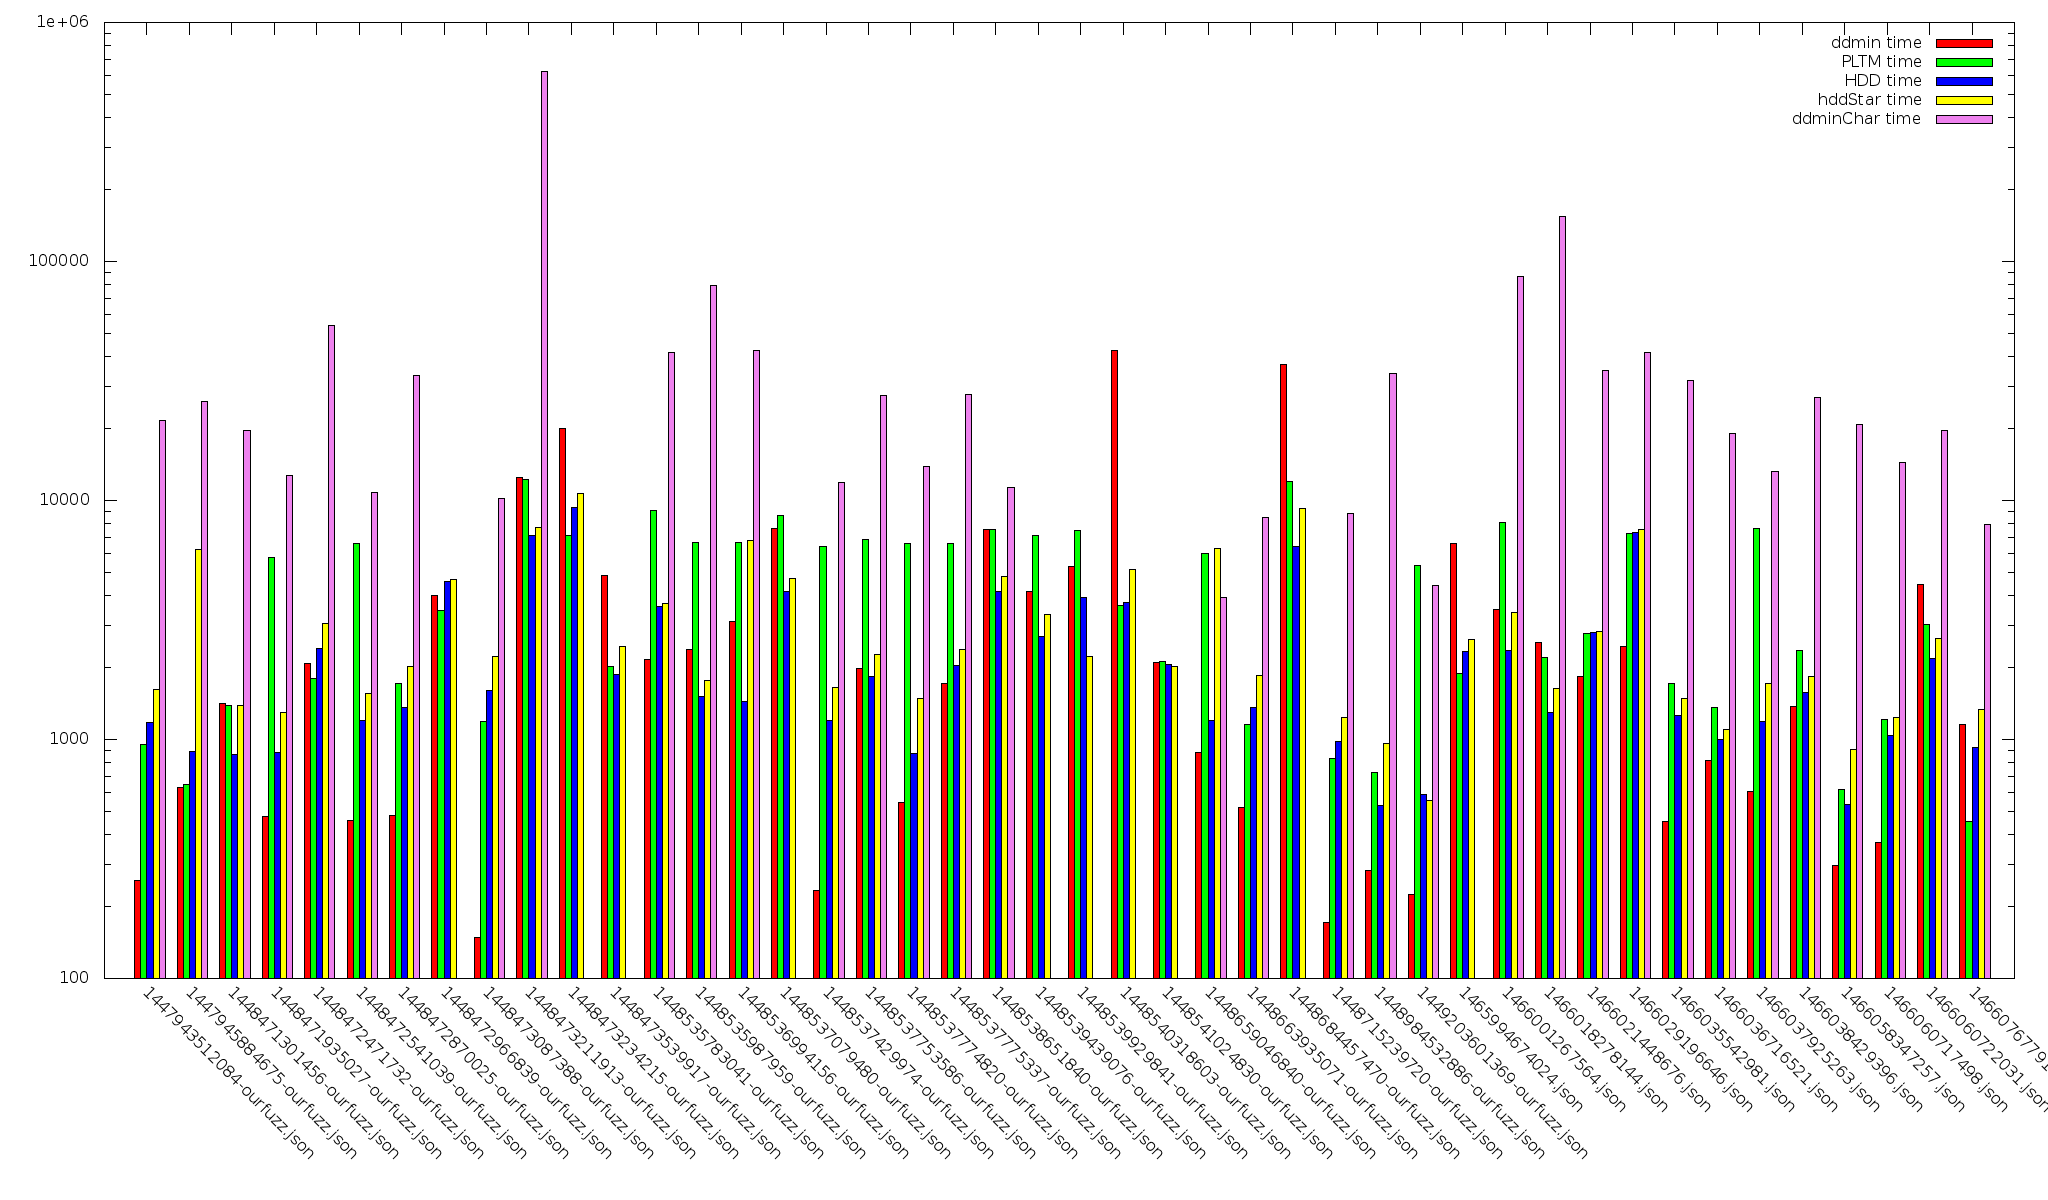
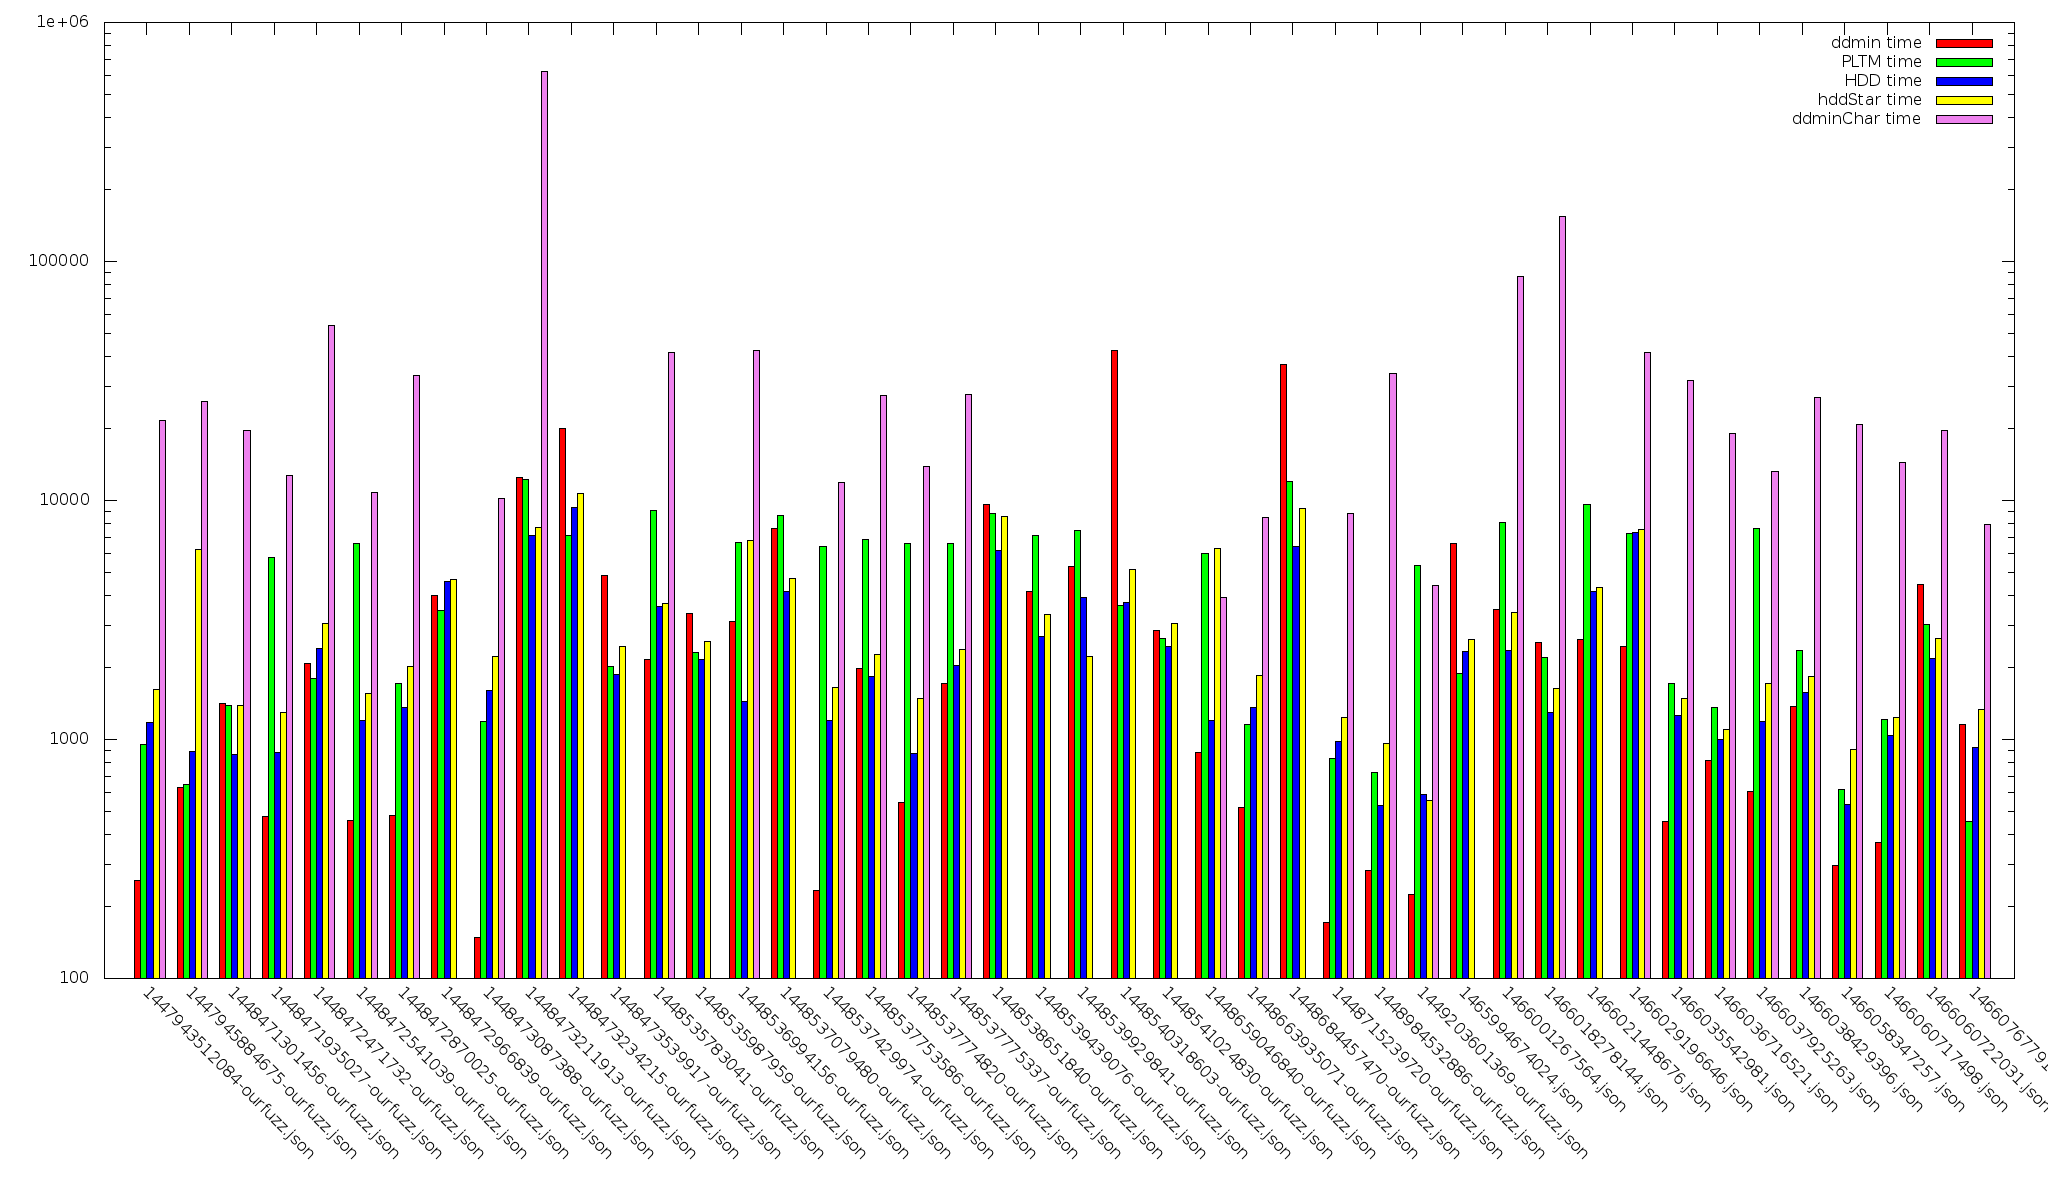
JS testing with comparing web worker crash messages for better results.

diff --git a/differential-testing-engine/server/server-reducer.js b/differential-testing-engine/server/server-reducer.js
@@ -115,7 +115,7 @@
                             encoding: "utf8"
                         });
                         // Obtain the old fileState or create a new one
-                        fileNameToState[file] = util.getFileState(codeDir, file) || new JSFileState(file, rawCode);
+                        fileNameToState[file] = util.getFileState(codeDir, file, rawCode) || new JSFileState(file, rawCode);
                         nbNewFiles++;
                     }
                 }
@@ -400,7 +400,7 @@
     deasync.loopWhile(function() { return listOfAgents.length < nbBrowsers; });
 
     // DDMin line
-    //reduceAllFiles(ddminLine, "ddmin", false);
+    reduceAllFiles(ddminLine, "ddmin", false);
 
     // DDMin char
     //reduceAllFiles(ddminChar, "ddminChar", false);
@@ -411,11 +411,11 @@
 
     // Model-HDD with inferred knowledge
     modelHdd.setUseInferredKnowledge(true);
-    //reduceAllFiles(modelHdd.postLevelTransformationHddStar, "PLTM", true);
+    reduceAllFiles(modelHdd.postLevelTransformationHddStar, "PLTM", true);
 
     // HDD and the like
     reduceAllFiles(hdd.hdd, "HDD", true);
-    //reduceAllFiles(hdd.hddStar, "hddStar", true);
+    reduceAllFiles(hdd.hddStar, "hddStar", true);
     //reduceAllFiles(rdd.rdd, "rdd", true);
     //reduceAllFiles(rdd.rddStar, "rddStar", true);
 })();

diff --git a/differential-testing-engine/server/util-server.js b/differential-testing-engine/server/util-server.js
@@ -4,10 +4,19 @@
     var jsonfile = require('jsonfile');
     var parser = require('ua-parser-js');
 
-    function getFileState(dir, fileName) {
+    function getFileState(dir, fileName, rawCode) {
         var resultFileName = fileName + "on"; // .js --> .json
         try {
-            return jsonfile.readFileSync(dir + "/" + resultFileName)
+            var res = jsonfile.readFileSync(dir + "/" + resultFileName);
+            // Override some fields
+            res.fileName = fileName;
+            res.rawCode = rawCode;
+            res.userAgentToResults = {};
+            res.testCode = undefined;
+            res.diff = undefined;
+            res.lastTested = undefined;
+
+            return res;
         } catch(e) {
             return undefined;
         }

diff --git a/differential-testing-engine/client/client.js b/differential-testing-engine/client/client.js
@@ -72,7 +72,7 @@
             workerDone = true;
             console.log("Error during execution of the worker " + eevent.message + " Line no: " +
                 eevent.lineno);
-            var errobj = {result: [{key: "Error", value: "web worker crash"}], isCrashing: true};
+            var errobj = {result: [{key: "Error", value: eevent.message}], isCrashing: true};
             sendResultReloadPage(errobj, fileNameForDifferentialTesting);
         };
         /* Reload the page upon message from the worker */
